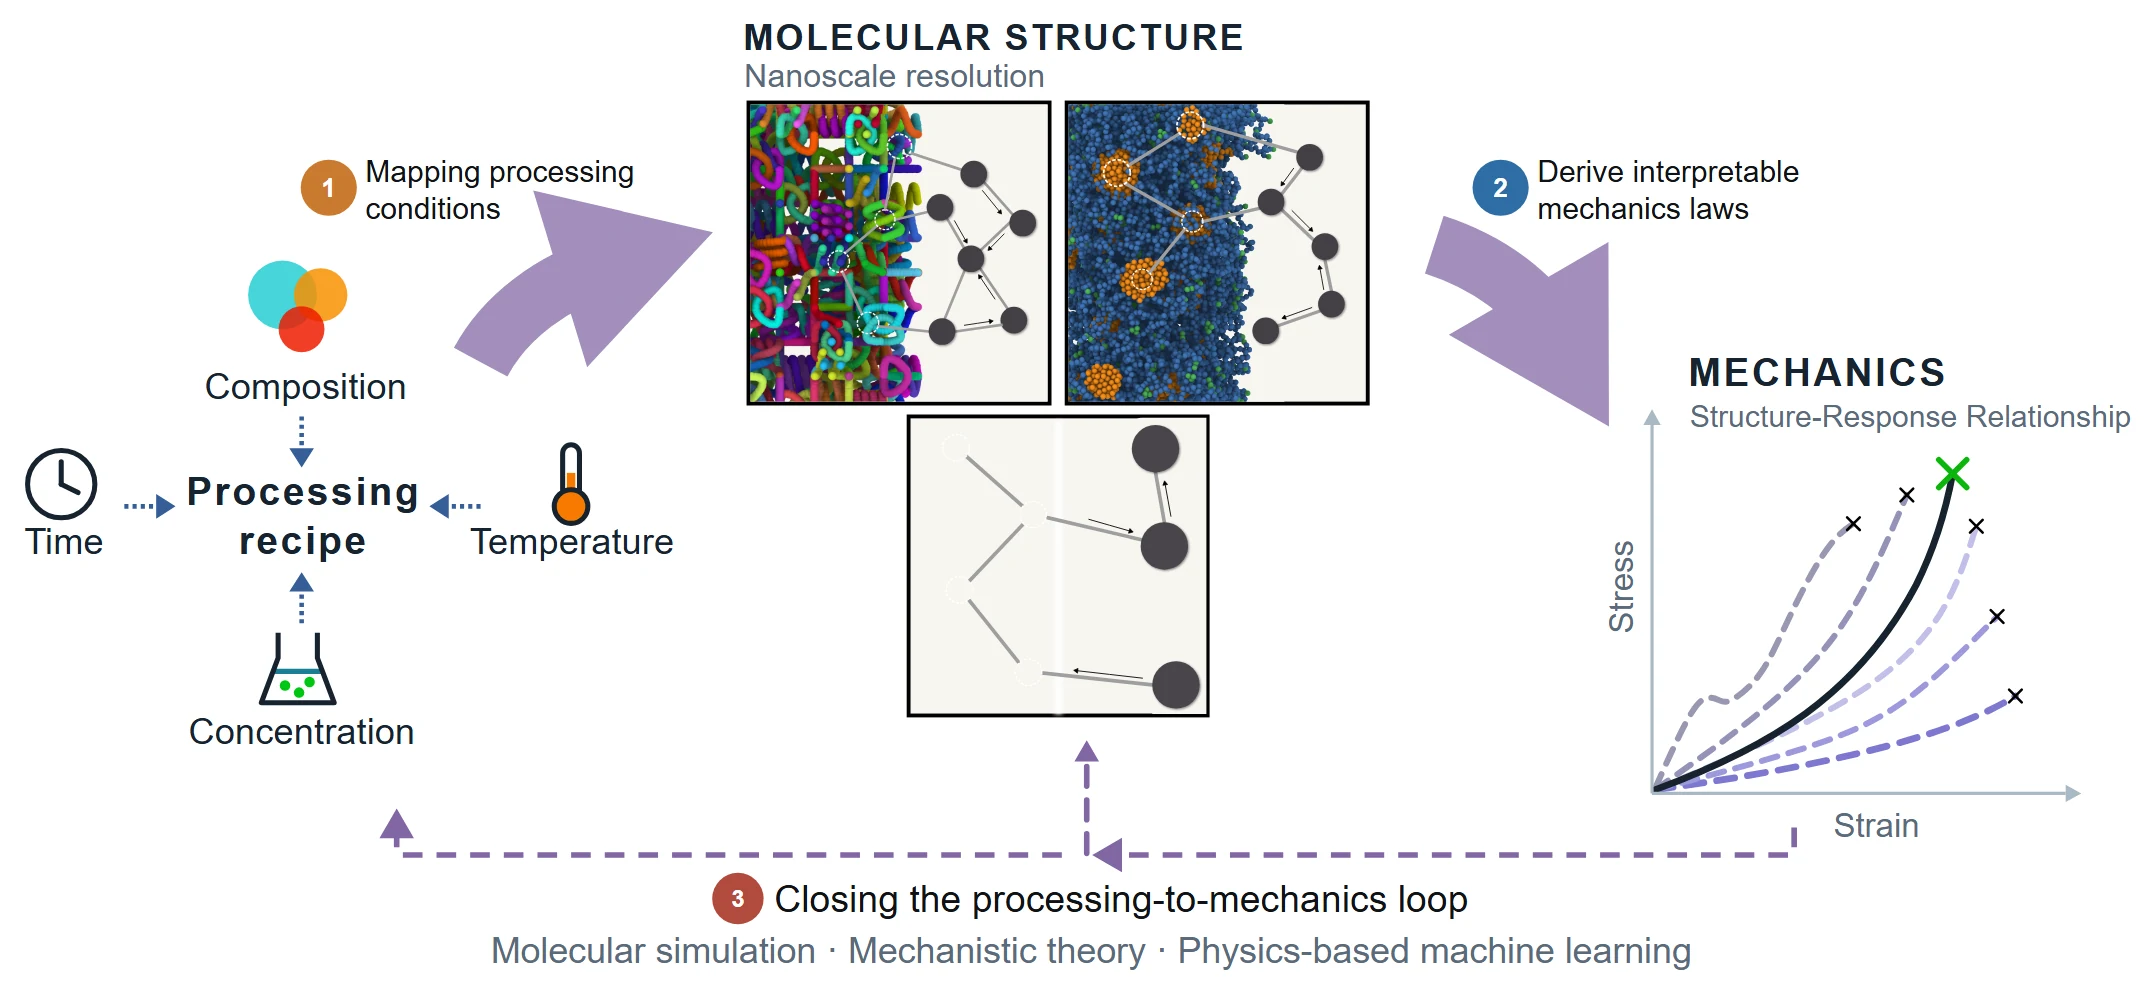
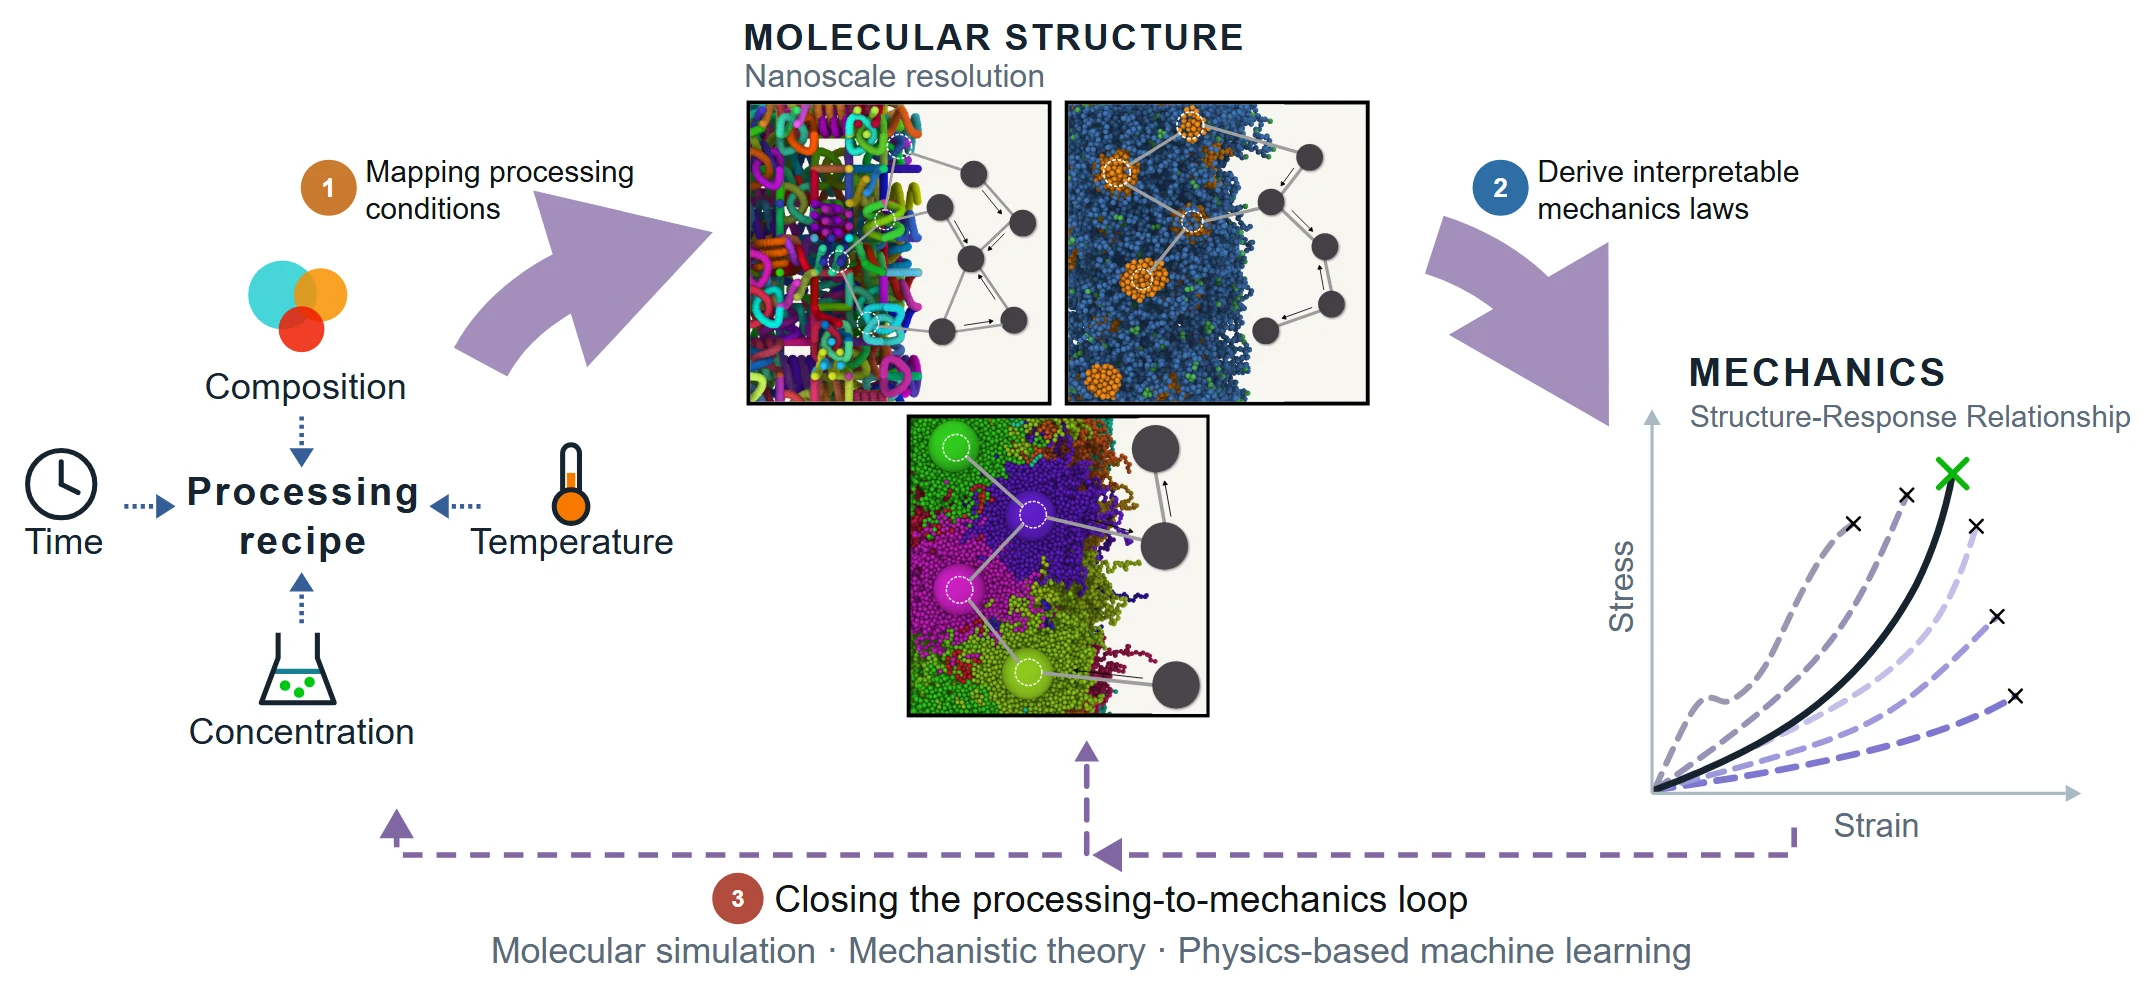
Fix research loop figure panel and ICLR TANGO author list
The bottom molecular-structure panel used a clip path with a <g> child,
which browsers ignore; re-exported with a rect clip.

Changed region(s): [[0.4042, 0.4054, 0.5285, 0.7173]]

diff --git a/research/index.html b/research/index.html
@@ -69,7 +69,7 @@
   <!-- The loop -->
   <div class="am-fade">
     <figure class="am-figure" style="padding:1.2rem 1.2rem 0.9rem;">
-      <img src="/images/research/research_loop.webp" alt="Research loop: processing variables set the molecular network structure, which governs mechanics. Three numbered efforts: 1 mapping processing conditions, 2 deriving interpretable mechanics laws, 3 closing the processing-to-mechanics loop." width="2155" height="994">
+      <img src="/images/research/research_loop.webp?v=2" alt="Research loop: processing variables set the molecular network structure, which governs mechanics. Three numbered efforts: 1 mapping processing conditions, 2 deriving interpretable mechanics laws, 3 closing the processing-to-mechanics loop." width="2155" height="994">
       <figcaption><b>The research loop.</b> Processing &rarr; structure &rarr; mechanics &rarr; design. <em>Molecular simulation &bull; mechanistic theory &bull; physics-based machine learning.</em></figcaption>
     </figure>
 
@@ -143,7 +143,7 @@
     </figure>
 
     <div class="am-cite">
-      <b>Moussavi, A.</b>, Yildirim, A. B., &amp; Keten, S. &ldquo;Topology-Aware Neural Graph Operator (TANGO) for Material Constitutive Laws.&rdquo; <em>ICLR 2026 AI4MATSCI Workshop</em>.
+      <b>Moussavi, A.</b>, &amp; Keten, S. &ldquo;Topology-Aware Neural Graph Operator (TANGO) for Material Constitutive Laws.&rdquo; <em>ICLR 2026 AI4MATSCI Workshop</em>.
     </div>
   </div>
 </section>

diff --git a/publications/index.html b/publications/index.html
@@ -78,7 +78,7 @@
     <div class="am-pub feat">
       <span class="am-pub-journal feat">ICLR 2026 &bull; AI4MATSCI Workshop</span>
       <div class="am-pub-title">Topology-Aware Neural Graph Operator (TANGO) for Material Constitutive Laws</div>
-      <div class="am-pub-authors"><strong>Moussavi, A.</strong>, Yildirim, A. B., &amp; Keten, S. (2026). Workshop paper, ICLR 2026 AI4MATSCI (non-archival); full paper in preparation.</div>
+      <div class="am-pub-authors"><strong>Moussavi, A.</strong>, &amp; Keten, S. (2026). Workshop paper, ICLR 2026 AI4MATSCI (non-archival); full paper in preparation.</div>
       <div class="am-pub-links"><a href="/research#tango"><i class="fa-solid fa-play fa-xs"></i> Explainer video &amp; figures</a></div>
     </div>
   </div>

diff --git a/index.html b/index.html
@@ -259,7 +259,7 @@
         <div class="am-pub feat">
           <span class="am-pub-journal feat">ICLR 2026 &bull; AI4MATSCI Workshop</span>
           <div class="am-pub-title">Topology-Aware Neural Graph Operator (TANGO) for Material Constitutive Laws</div>
-          <div class="am-pub-authors"><strong>Moussavi, A.</strong>, Yildirim, A. B., &amp; Keten, S. (2026). Non-archival workshop paper; full paper in preparation.</div>
+          <div class="am-pub-authors"><strong>Moussavi, A.</strong>, &amp; Keten, S. (2026). Non-archival workshop paper; full paper in preparation.</div>
           <div class="am-pub-links"><a href="/research#tango"><i class="fa-solid fa-play fa-xs"></i> Explainer video &amp; figures</a></div>
         </div>
 
